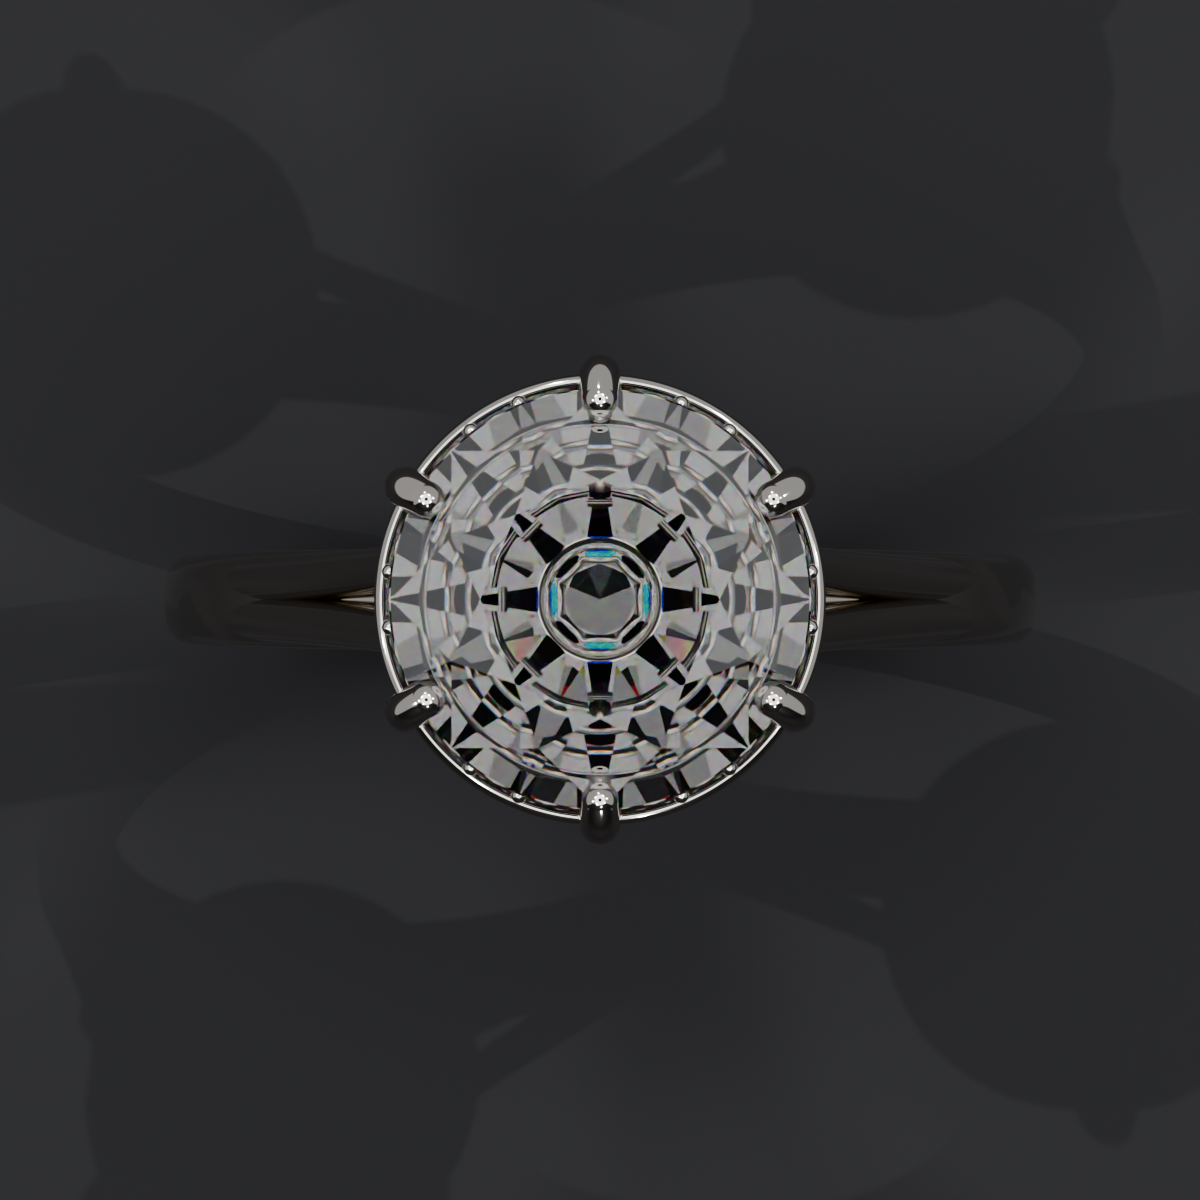
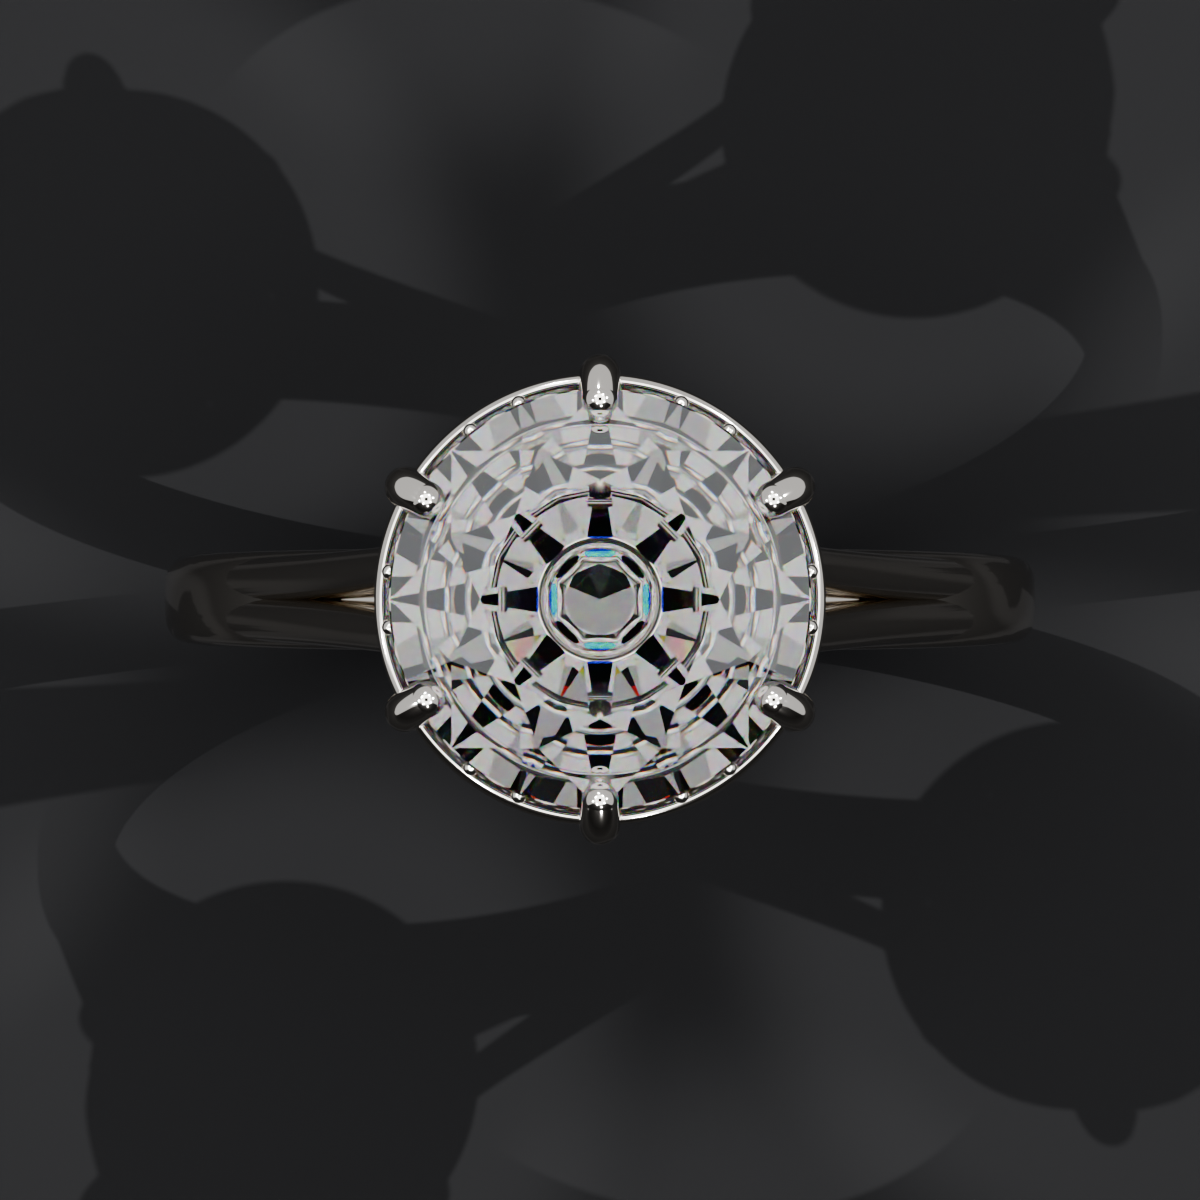
Add final velvet render; black camera background for face-up macro
Claude-Session: https://claude.ai/code/session_01PS6YJ5emrRgyRnptEpfgXt

Changed region(s): [[0.2775, 0.3083, 0.7092, 0.6783]]

diff --git a/diamond-configurator/blender/lumen_solitaire.py b/diamond-configurator/blender/lumen_solitaire.py
@@ -403,6 +403,21 @@ def world(color, strength):
     bpy.context.scene.world = w
 
 
+def camera_sees_black():
+    """Background reads black to camera rays only; reflections still see the lit world."""
+    nt = bpy.context.scene.world.node_tree
+    bg = nt.nodes["Background"]
+    out = nt.nodes["World Output"]
+    lp = nt.nodes.new("ShaderNodeLightPath")
+    black = nt.nodes.new("ShaderNodeBackground")
+    black.inputs["Color"].default_value = (0.004, 0.004, 0.005, 1)
+    mix = nt.nodes.new("ShaderNodeMixShader")
+    nt.links.new(lp.outputs["Is Camera Ray"], mix.inputs[0])
+    nt.links.new(bg.outputs[0], mix.inputs[1])
+    nt.links.new(black.outputs[0], mix.inputs[2])
+    nt.links.new(mix.outputs[0], out.inputs["Surface"])
+
+
 def camera(loc, target, lens, fstop, focus):
     cam = bpy.data.cameras.new("Camera")
     cam.lens = lens
@@ -512,8 +527,10 @@ def shot_faceup(gem_z, R):
     """Macro straight down onto the table: arrows pattern, brilliance, fire."""
     bpy.context.scene.cycles.caustics_refractive = False  # the floor isn't the subject here
     floor_z = -(INNER_R + BAND_T_BOTTOM)
-    cyclorama(mat_principled("Black", (0.002, 0.002, 0.0025), 1.0), floor_z)
+    sweep = cyclorama(mat_principled("Black", (0.002, 0.002, 0.0025), 1.0), floor_z)
+    sweep.visible_camera = False  # the stone still reflects the room; the camera sees black velvet
     world((0.85, 0.86, 0.88), 0.9)
+    camera_sees_black()
     bpy.context.scene.view_settings.exposure = 0.9
     head = (0, 0, gem_z)
     # jewellery-store spots at 40–60° elevation around the stone
